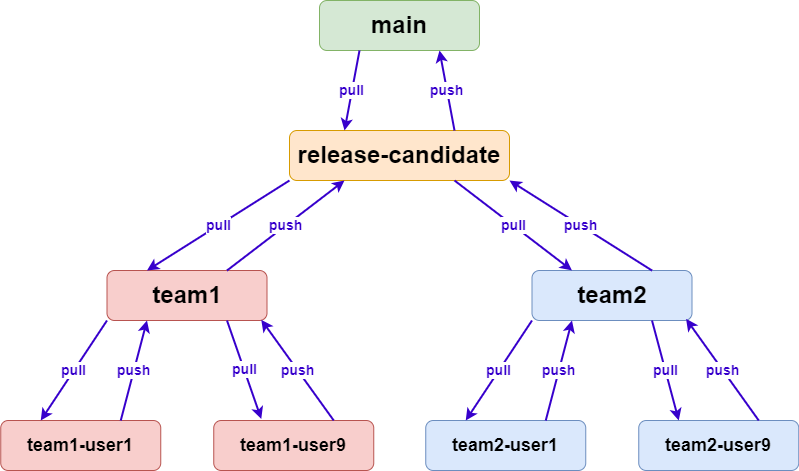
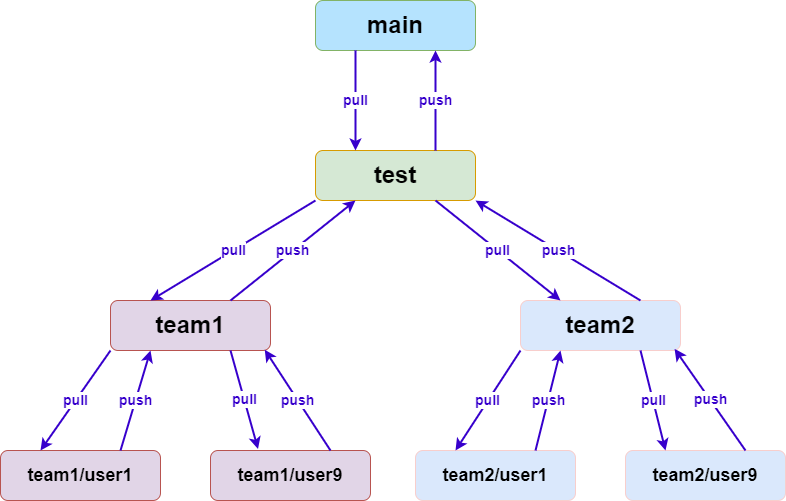
Update development diagrams and description

diff --git a/Development-Management.md b/Development-Management.md
@@ -27,20 +27,20 @@ Once you have established your local branch, always remember to pull then push (
 
 ### Branch Workflow
 
-The Capstone project uses a `main` and `release-candidate` branch. Any pull requests to either of these branches results in the following actions:
+The Capstone project uses a `main` and `test` branch. Any pull requests to either of these branches results in the following actions:
 
-   * release-candidate - deploy to test environment
-   * main - deploy to live environment
+   * pull request to test - deploy to test environment
+   * pull request to main - deploy to live environment
 
-The class is generally split into two teams so the tasks can be split by front-end and back-end functionality. Each team member will create a remote branch using their username as a suffix, as show here:
+The class is generally split into two teams so the tasks can be split by front-end and back-end functionality (or by any other categorisation the teams wish to use). Each team member will create a remote branch using their username as a suffix, as show here:
 
    ![branch-workflow](/.attachments/development-branch-workflow.png)
 
    *Figure 2 - Branch Workflow Process*
 
-Team members will work on their local branch, pushing to their remote branch often to ensure regular remote backups. Close coordination with team leaders will to reduce the chance of code conflicts when merging units of work to the `team` branches.
+Team members will work on their local branch, pushing to their remote branch often to ensure regular remote backups. Close coordination with team leaders will to reduce the chance of code conflicts when merging units of work to the team branches.
 
-When the team leaders and build managers are ready, pull requests can be issues to push the team branch commits to the `release-candidate` branch.
+When the team leaders and build managers are ready, pull requests can be issues to push the team branch commits to the `test` branch.
 
 Once the code from all the team members has been merged and tested, a pull request can be created into the `main` branch.
 
@@ -55,16 +55,16 @@ This branch strategy may appear complicated but after using it for a week or two
 
 The `main` branch represents the code deployed to the live environment.
 
-The `release-candidate` branch holds code deployed to the test environment.
+The `test` branch holds code deployed to the test environment.
 
 Each team will have a branch for their code. Here is an example scenario:
 
    * Team 1 is working on the front-end Angular project
-      * A `team1` remote branch is created from `release-candidate` on Azure DevOps
-      * Each team member creates a `team1-profilename` remote branch from the `team1` branch
-      * Team 1 userX has a branch `team1-userX` and they add the category list elements to the code
-      * The category page is tested successfully and a pull request is issued to merge `team1-userX` into `team1`
-      * Because the work can be used by the back-end team, a pull request is issues to merge `team1` into `release-candidate`
-      * The code is then pushed to `main`, and the merged code is refreshed back into `release-candidate` and the two team branches
+      * A `team1` remote branch is created from `test` on Azure DevOps
+      * Each team member creates a `team1/profilename` remote branch from the `team1` branch
+      * Team 1 userX has a branch `team1/userX` and they add the category list elements to the code
+      * The category page is tested successfully and a pull request is issued to merge `team1/userX` into `team1`
+      * Because the work can be used by the back-end team, a pull request is issues to merge `team1` into `test`
+      * The code is then pushed to `main`, and the merged code is refreshed back into `team1` and `team2`
 
-The important thing to remember is to pull from either `release-candidate` or `main` after a merge from your team.
+The important thing to remember is to pull from either `test` or `main` after a merge from your team.
